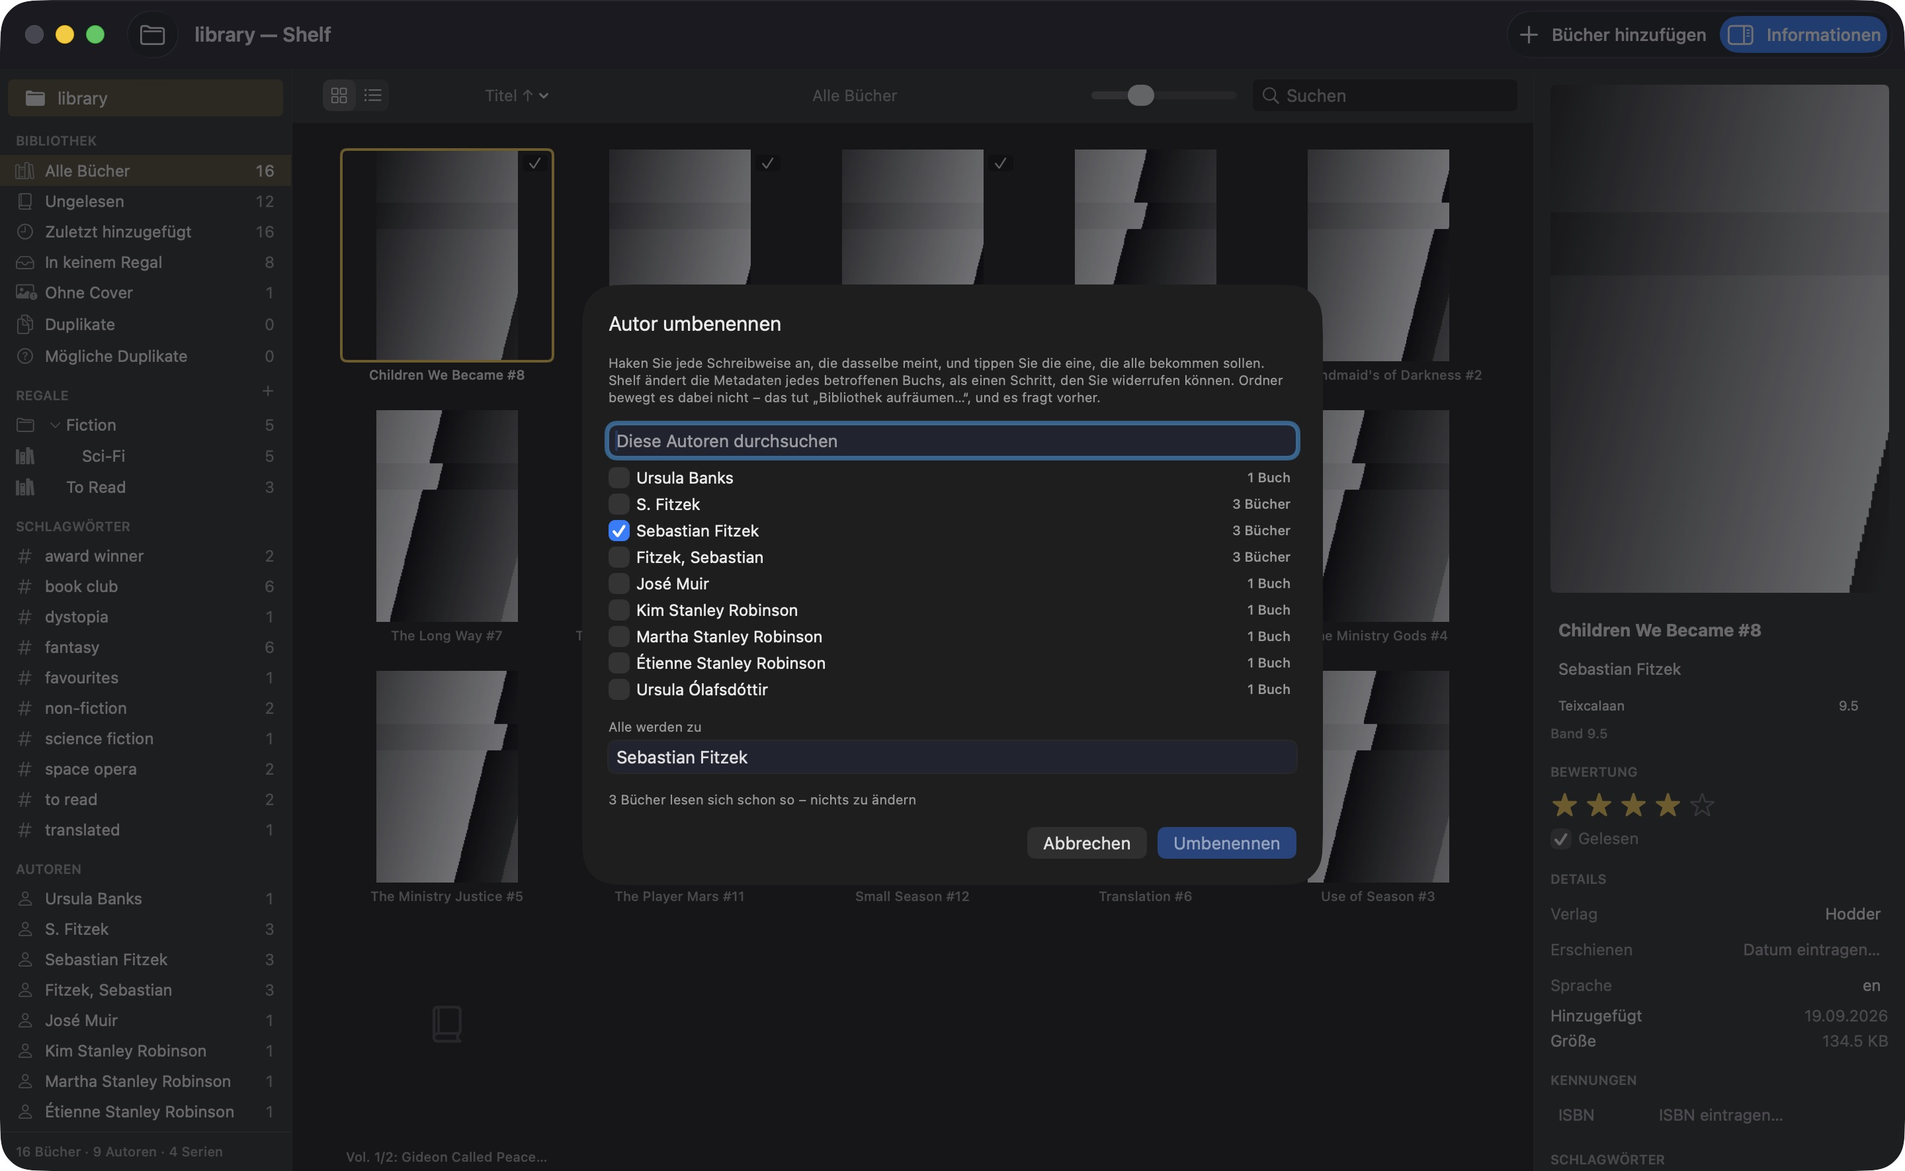
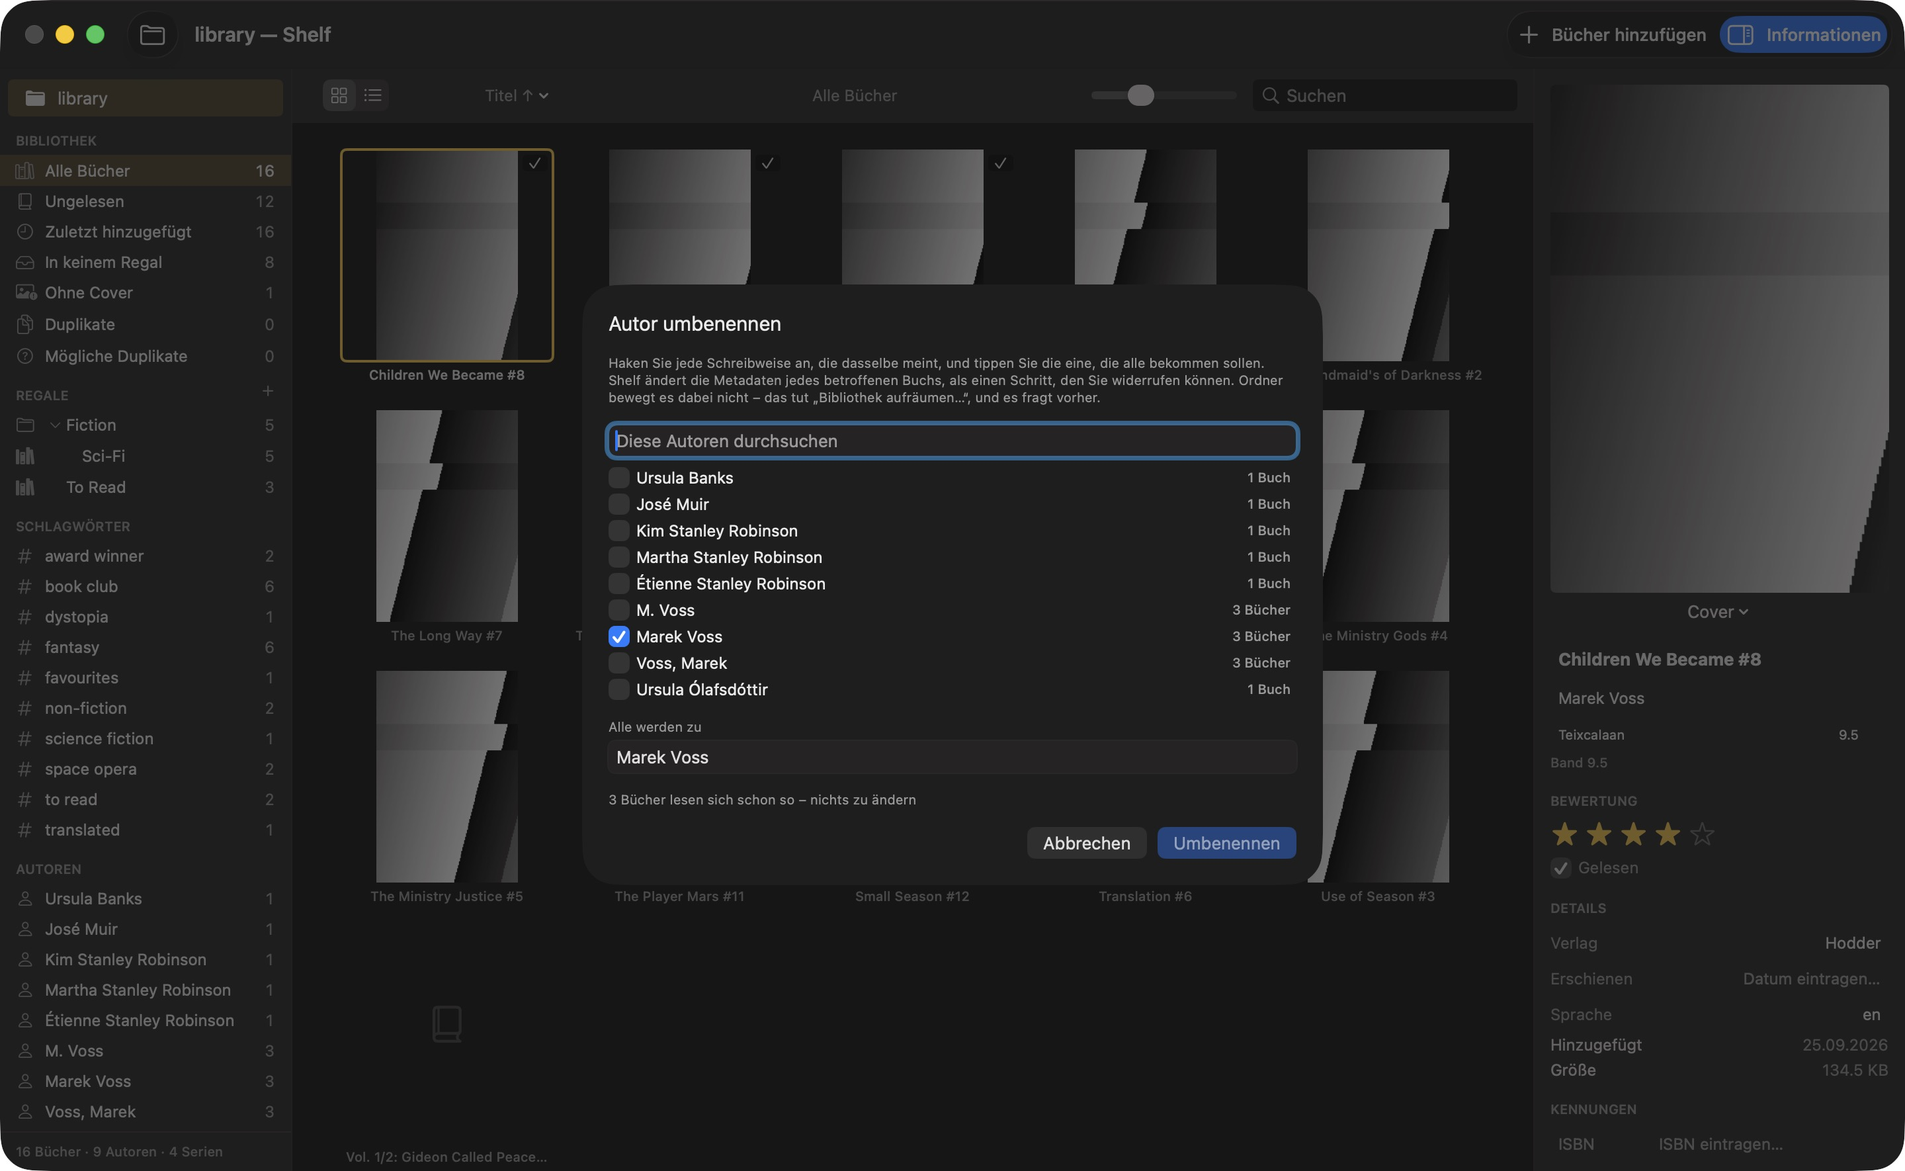
fix: a real author, a real title and a real download site left the public repo
Read against the real library (read-only) which values in the codebase's
own examples turned out to be genuinely real rather than invented: an
author name used since Sprint 8 for the merge/organize example (ADR 0018,
scripts, tests, six Sprint 8 screenshots), and a second real author and
book title used as a download-site filename fixture, repeated once more
in a CHANGELOG entry and a code comment. All replaced with invented
names, consistently; the six screenshots re-taken against the rebuilt
example library in both languages. The download-site test no longer
names a real site: the filename-prefix rule is now a general
"_<domain>_" pattern instead of one hard-coded domain. One unrelated real
book title in a CHANGELOG entry about a real import is withheld rather
than replaced.

diff --git a/Tests/ShelfCoreTests/NameEditTests.swift b/Tests/ShelfCoreTests/NameEditTests.swift
@@ -6,8 +6,8 @@ import Testing
 /// Renaming one spelling, and folding several into one.
 ///
 /// The scenario every test here comes back to is the one that started Sprint 8:
-/// one person in the library as "Sebastian Fitzek", "Fitzek, Sebastian" and
-/// "S. Fitzek", which is three authors and three folders and no defect
+/// one person in the library as "Marek Voss", "Voss, Marek" and
+/// "M. Voss", which is three authors and three folders and no defect
 /// anywhere — three different strings really are three different strings.
 @Suite("Renaming and merging the names books share")
 struct NameEditTests {
@@ -26,19 +26,19 @@ struct NameEditTests {
     @Test("three spellings of one author become one, and each book is one change")
     func mergeAuthors() {
         let entries = [
-            entry("Die Therapie", authors: ["Sebastian Fitzek"]),
-            entry("Das Kind", authors: ["Fitzek, Sebastian"]),
-            entry("Splitter", authors: ["S. Fitzek"]),
+            entry("Die Therapie", authors: ["Marek Voss"]),
+            entry("Das Kind", authors: ["Voss, Marek"]),
+            entry("Splitter", authors: ["M. Voss"]),
             entry("Pride and Prejudice", authors: ["Jane Austen"]),
         ]
         let merge = NameMerge(
-            kind: .author, sources: ["Fitzek, Sebastian", "S. Fitzek"], target: "Sebastian Fitzek")
+            kind: .author, sources: ["Voss, Marek", "M. Voss"], target: "Marek Voss")
         let plan = NameEdit.plan(merge, over: entries)
 
         // The book that already spells it right is not rewritten: a change
         // that changes nothing is not written.
         #expect(plan.bookCount == 2)
-        #expect(plan.changes.allSatisfy { $0.change.after.authors == ["Sebastian Fitzek"] })
+        #expect(plan.changes.allSatisfy { $0.change.after.authors == ["Marek Voss"] })
         // And Jane Austen is untouched, which is the whole of "Shelf never chooses".
         #expect(!plan.changes.contains { $0.entry.book.title == "Pride and Prejudice" })
         // Without the count: the window adds that through the same frame it
@@ -50,10 +50,10 @@ struct NameEditTests {
 
     @Test("a book carrying two of the spellings ends up with one author, not two")
     func twoSpellingsOnOneBook() {
-        let book = entry("An anthology", authors: ["S. Fitzek", "Sebastian Fitzek", "Jane Austen"]).book
-        let merge = NameMerge(kind: .author, sources: ["S. Fitzek"], target: "Sebastian Fitzek")
+        let book = entry("An anthology", authors: ["M. Voss", "Marek Voss", "Jane Austen"]).book
+        let merge = NameMerge(kind: .author, sources: ["M. Voss"], target: "Marek Voss")
         let edited = NameEdit.replacing(merge, in: book)
-        #expect(edited?.authors == ["Sebastian Fitzek", "Jane Austen"])
+        #expect(edited?.authors == ["Marek Voss", "Jane Austen"])
     }
 
     /// The order of the authors is data — the first one names the folder and
@@ -71,10 +71,10 @@ struct NameEditTests {
     /// why the sources are matched exactly and not folded.
     @Test("a rename that only changes the capitalisation is a real change")
     func capitalisationOnly() {
-        let book = entry("A book", authors: ["fitzek"]).book
-        let merge = NameMerge.rename(.author, from: "fitzek", to: "Fitzek")
+        let book = entry("A book", authors: ["voss"]).book
+        let merge = NameMerge.rename(.author, from: "voss", to: "Voss")
         let change = NameEdit.change(merge, to: book)
-        #expect(change?.after.authors == ["Fitzek"])
+        #expect(change?.after.authors == ["Voss"])
     }
 
     /// …and the target's spelling wins when the replacement collides with a
@@ -126,13 +126,13 @@ struct NameEditTests {
     @Test("an empty plan says whether nobody carries the name or everybody already does")
     func twoKindsOfNothing() {
         let entries = [
-            entry("One", authors: ["Sebastian Fitzek"]),
-            entry("Two", authors: ["Sebastian Fitzek"]),
+            entry("One", authors: ["Marek Voss"]),
+            entry("Two", authors: ["Marek Voss"]),
             entry("Three", authors: ["Jane Austen"]),
         ]
         // Ticked and typed the same: nothing to do, but the books are there.
         let noop = NameEdit.plan(
-            NameMerge.rename(.author, from: "Sebastian Fitzek", to: "Sebastian Fitzek"),
+            NameMerge.rename(.author, from: "Marek Voss", to: "Marek Voss"),
             over: entries)
         #expect(noop.isEmpty)
         #expect(noop.carrying == 2)
@@ -177,20 +177,20 @@ struct NameEditTests {
     func sortKeysFollow() async throws {
         let index = try LibraryIndex(inMemory: "merge-sort")
 
-        var zebra = entry("Zebra", authors: ["Fitzek, Sebastian"])
+        var zebra = entry("Zebra", authors: ["Voss, Marek"])
         try await index.save(zebra)
-        // "Fitzek, Sebastian" already sorts as itself; the merged spelling
-        // "Sebastian Fitzek" has to be filed under F as well, which is the
+        // "Voss, Marek" already sorts as itself; the merged spelling
+        // "Marek Voss" has to be filed under F as well, which is the
         // thing a fresh name_sort buys.
-        #expect(try await index.authorFacets().map { $0.name } == ["Fitzek, Sebastian"])
+        #expect(try await index.authorFacets().map { $0.name } == ["Voss, Marek"])
 
-        let merge = NameMerge.rename(.author, from: "Fitzek, Sebastian", to: "Sebastian Fitzek")
+        let merge = NameMerge.rename(.author, from: "Voss, Marek", to: "Marek Voss")
         zebra.book = try #require(NameEdit.replacing(merge, in: zebra.book))
         try await index.save(zebra)
 
         let facets = try await index.authorFacets()
         // The old author row has no books left, so it is not a facet any more.
-        #expect(facets.map { $0.name } == ["Sebastian Fitzek"])
+        #expect(facets.map { $0.name } == ["Marek Voss"])
         #expect(facets.first?.count == 1)
 
         let sorted = try await index.allEntries(sortedBy: BookOrder(field: .author, ascending: true))

diff --git a/Sources/ShelfCore/Formats/EPUBMetadata.swift b/Sources/ShelfCore/Formats/EPUBMetadata.swift
@@ -208,8 +208,14 @@ public enum FileNameMetadata {
     static let separators = [" - ", " – ", " — ", "_-_"]
 
     /// Prefixes shops and sites glue onto a file name. Stripped so a book is
-    /// not called "OceanofPDF com The Wife Upstairs".
-    static let noisePrefixes = ["_oceanofpdf.com_", "oceanofpdf.com_", "www.", "_"]
+    /// not called "Example Books com The Attic Room".
+    ///
+    /// No site's own domain is hard-coded: `_<label>.<tld>_` at the very
+    /// start of a name is the shape every one of them shares, so a domain
+    /// this project has never seen a file from folds away exactly like one
+    /// it has.
+    static let noisePrefixes = ["www.", "_"]
+    private static let domainPrefixPattern = "^_[a-z0-9-]+(?:\\.[a-z0-9-]+)+_"
 
     /// The title part of "The Hobbit - J.R.R. Tolkien".
     ///
@@ -241,13 +247,27 @@ public enum FileNameMetadata {
     }
 
     private static func withoutNoise(_ name: String) -> String {
-        var result = name
-        let lower = result.lowercased()
-        for prefix in noisePrefixes where lower.hasPrefix(prefix) {
-            result = String(result.dropFirst(prefix.count))
-            break
+        let lower = name.lowercased()
+        if let match = firstMatch(domainPrefixPattern, in: lower), let whole = match.first {
+            return String(name.dropFirst(whole.count))
         }
-        return result
+        for prefix in noisePrefixes where lower.hasPrefix(prefix) {
+            return String(name.dropFirst(prefix.count))
+        }
+        return name
+    }
+
+    /// The whole match and its groups, or nil. `NSRegularExpression` rather
+    /// than Swift's `Regex`, for the same Linux-portability reason
+    /// `ComicFileName.firstMatch` gives.
+    private static func firstMatch(_ pattern: String, in text: String) -> [String]? {
+        guard let expression = try? NSRegularExpression(pattern: pattern) else { return nil }
+        let full = NSRange(text.startIndex..., in: text)
+        guard let match = expression.firstMatch(in: text, range: full) else { return nil }
+        return (0..<match.numberOfRanges).map { index in
+            guard let range = Range(match.range(at: index), in: text) else { return "" }
+            return String(text[range])
+        }
     }
 
     /// Underscores back to spaces, runs of whitespace collapsed. Not

diff --git a/Sources/ShelfCore/Library/NameEdit.swift b/Sources/ShelfCore/Library/NameEdit.swift
@@ -65,8 +65,8 @@ public struct NameMerge: Equatable, Sendable {
     /// The spellings being replaced, exactly as the sidebar lists them.
     ///
     /// Exact, not folded: the facets the person clicked are exact strings, and
-    /// a rename whose only change *is* the capitalisation — "fitzek" to
-    /// "Fitzek" — has to be possible.
+    /// a rename whose only change *is* the capitalisation — "voss" to
+    /// "Voss" — has to be possible.
     public var sources: [String]
     /// What they all become.
     public var target: String
@@ -162,8 +162,8 @@ public struct NameMergePlan: Equatable, Sendable {
     /// not the merge would change them.
     ///
     /// It exists to tell two quite different nothings apart, and looking at a
-    /// screenshot is what found them being told alike. Ticking "Sebastian
-    /// Fitzek" and typing "Sebastian Fitzek" changes nothing, and the sheet
+    /// screenshot is what found them being told alike. Ticking "Marek
+    /// Voss" and typing "Marek Voss" changes nothing, and the sheet
     /// said **"No book carries that name"** — with three of them listed one
     /// line above, each saying "3 books". Both are empty plans; only one of
     /// them is a library that has never heard of the name.
@@ -187,7 +187,7 @@ public struct NameMergePlan: Equatable, Sendable {
             && zip(one.changes, other.changes).allSatisfy { $0.entry == $1.entry && $0.change == $1.change }
     }
 
-    /// "37 books · 3 spellings → “Sebastian Fitzek”".
+    /// "37 books · 3 spellings → “Marek Voss”".
     public func summary() -> String {
         guard !isEmpty else {
             if carrying == 0 {

diff --git a/Tests/ShelfCoreTests/MergeMatchingTests.swift b/Tests/ShelfCoreTests/MergeMatchingTests.swift
@@ -43,13 +43,13 @@ struct MergeMatchingTests {
 
     @Test("order and punctuation do not make two spellings different people")
     func foldsOrderAndPunctuation() {
-        #expect(AuthorNameFold.normalized("Fitzek, Sebastian") == AuthorNameFold.normalized("Sebastian Fitzek"))
+        #expect(AuthorNameFold.normalized("Voss, Marek") == AuthorNameFold.normalized("Marek Voss"))
         #expect(AuthorNameFold.normalized("Hartmann, Cole") == AuthorNameFold.normalized("Cole Hartmann"))
     }
 
     @Test("an initial for a full first name is NOT folded the same — that needs Teil C's own confirmation")
     func doesNotFoldInitialsAgainstFullNames() {
-        #expect(AuthorNameFold.normalized("J. Zeh") != AuthorNameFold.normalized("Juli Zeh"))
+        #expect(AuthorNameFold.normalized("J. Vogt") != AuthorNameFold.normalized("Julia Vogt"))
     }
 
     @Test("genuinely different people stay different")
@@ -98,8 +98,8 @@ struct MergeMatchingTests {
 
     @Test("an author spelling swap still groups, via the safe fold")
     func groupsAcrossAuthorOrderSwap() {
-        let a = entry(title: "Nachtfrost", author: "Sebastian Fitzek", number: 1)
-        let b = entry(title: "Nachtfrost", author: "Fitzek, Sebastian", number: 2)
+        let a = entry(title: "Nachtfrost", author: "Marek Voss", number: 1)
+        let b = entry(title: "Nachtfrost", author: "Voss, Marek", number: 2)
         let groups = MergeCandidates.certainGroups(among: [a, b])
         #expect(groups.count == 1)
     }

diff --git a/Sources/ShelfCore/Organize/OrganizeRunner.swift b/Sources/ShelfCore/Organize/OrganizeRunner.swift
@@ -15,7 +15,7 @@ import Foundation
 ///   because a plan is a statement about a moment that has passed.
 /// * **Nothing is deleted.** The one folder this touches at all is an author
 ///   folder this run has just **emptied** — "Atwood, Adrian" after its last
-///   book moved to "Fitzek, Sebastian" — and it goes to the **Trash**, never
+///   book moved to "Voss, Marek" — and it goes to the **Trash**, never
 ///   to `removeItem`. The rule is `EmptiedFolder` and the act is
 ///   `FolderDisposal`, kept apart so the first can be tested on Linux and the
 ///   second is the platform's. A folder holding anything but the file
@@ -263,7 +263,7 @@ public struct OrganizeRunner: Sendable {
         try makeFolder(destination.deletingLastPathComponent())
 
         if move.isCaseOnly {
-            // `Fitzek` → `fitzek` on a folding volume is not a move between two
+            // `Voss` → `voss` on a folding volume is not a move between two
             // folders; it is one folder being spelled differently, and a direct
             // `moveItem` is a write into itself. Two steps through a name
             // nothing else can have — and the only halfway state in this whole

diff --git a/Tests/ShelfCoreTests/ModelTests.swift b/Tests/ShelfCoreTests/ModelTests.swift
@@ -173,15 +173,15 @@ struct SortingTests {
     }
 
     /// Found by importing seventeen real books: shop EPUBs write `dc:creator`
-    /// both ways, and sorting an already-sorted name turned "McFadden, Freida"
-    /// into "Freida, McFadden," – and with it the folder the book lives in.
+    /// both ways, and sorting an already-sorted name turned "Albrecht, Nora"
+    /// into "Nora, Albrecht," – and with it the folder the book lives in.
     @Test("a name that already has a comma is already sorted, and is left alone")
     func authorSortAlreadySorted() {
-        #expect(AuthorSort.of("McFadden, Freida") == "McFadden, Freida")
+        #expect(AuthorSort.of("Albrecht, Nora") == "Albrecht, Nora")
         #expect(AuthorSort.of("Austen, Jane") == "Austen, Jane")
         #expect(AuthorSort.of("King, Martin Luther Jr.") == "King, Martin Luther Jr.")
         // Whitespace is still tidied, so two spellings of one name are one name.
-        #expect(AuthorSort.of("  McFadden,   Freida  ") == "McFadden, Freida")
+        #expect(AuthorSort.of("  Albrecht,   Nora  ") == "Albrecht, Nora")
     }
 
     @Test("sorting a name twice gives the same answer as sorting it once")

diff --git a/Tests/ShelfCoreTests/EPUBMetadataTests.swift b/Tests/ShelfCoreTests/EPUBMetadataTests.swift
@@ -261,11 +261,18 @@ struct FileNameMetadataTests {
     @Test("underscores become spaces and a shop's prefix is dropped")
     func noise() {
         #expect(
-            FileNameMetadata.title(from: "_OceanofPDF.com_The_Wife_Upstairs_-_Freida_McFadden")
-                == "The Wife Upstairs")
+            FileNameMetadata.title(from: "_example-books.test_The_Attic_Room_-_Nora_Albrecht")
+                == "The Attic Room")
         #expect(
-            FileNameMetadata.authors(from: "_OceanofPDF.com_The_Wife_Upstairs_-_Freida_McFadden")
-                == ["Freida McFadden"])
+            FileNameMetadata.authors(from: "_example-books.test_The_Attic_Room_-_Nora_Albrecht")
+                == ["Nora Albrecht"])
+    }
+
+    @Test("a domain this project has never seen a file from folds away just the same")
+    func unseenDomain() {
+        #expect(
+            FileNameMetadata.title(from: "_totally-invented-site.example_A_Title_-_An_Author")
+                == "A Title")
     }
 
     @Test("the first separator wins, so a title containing a dash keeps its tail")

diff --git a/Sources/ShelfCore/Organize/VolumeCase.swift b/Sources/ShelfCore/Organize/VolumeCase.swift
@@ -9,7 +9,7 @@ import Foundation
 /// library can sit on any of them, and the answer changes what "move this
 /// folder there" means:
 ///
-/// * On a folding volume, `Fitzek` and `fitzek` are **one folder**. Moving one
+/// * On a folding volume, `Voss` and `voss` are **one folder**. Moving one
 ///   onto the other is not a move at all — it is a write into itself, which
 ///   `FileManager` refuses on some volumes and silently mangles on others. Such
 ///   a move has to go through a third name.
@@ -23,7 +23,7 @@ import Foundation
 /// asks for it by the other spelling, and takes the answer away with it.
 public enum VolumeCase {
 
-    /// `true` when the volume folds case — `Fitzek` and `fitzek` are one name.
+    /// `true` when the volume folds case — `Voss` and `voss` are one name.
     ///
     /// Falls back to `true` when the question cannot be asked at all (a
     /// read-only folder, a volume that has gone). `true` is the cautious

diff --git a/Sources/ShelfCore/Library/MergeMatching.swift b/Sources/ShelfCore/Library/MergeMatching.swift
@@ -39,8 +39,8 @@ public enum TitleNormalization {
 /// Folding an author's name for "is this the same person" — the *safe* half
 /// of Teil C's rule only: case, accents, punctuation and word order.
 ///
-/// `"Fitzek, Sebastian"` and `"Sebastian Fitzek"` fold to the same key. An
-/// initial standing for a full first name (`"J. Zeh"` against `"Juli Zeh"`)
+/// `"Voss, Marek"` and `"Marek Voss"` fold to the same key. An
+/// initial standing for a full first name (`"J. Vogt"` against `"Julia Vogt"`)
 /// is a different, riskier claim — it needs a shared work or series to
 /// confirm, which is what makes it a *proposal* a person confirms rather than
 /// something two books can be matched by on their own — so it belongs to

diff --git a/Sources/ShelfCore/Library/SimilarSpellings.swift b/Sources/ShelfCore/Library/SimilarSpellings.swift
@@ -61,7 +61,7 @@ public struct SimilarSpellingGroup: Equatable, Sendable, Identifiable {
 /// Proposing groups of author or publisher spellings that are probably one
 /// person or one publisher — never merging anything itself.
 public enum SimilarSpellings {
-    /// A name whose given-name part is written as initials — `"J. Zeh"`,
+    /// A name whose given-name part is written as initials — `"J. Vogt"`,
     /// `"J. K. Rowling"` — every token before the last one is a single
     /// letter with a period. The riskier of C2's two rules only applies
     /// when this is true of one side and false of the other; two full names

diff --git a/Tests/ShelfCoreTests/OrganizeTests.swift b/Tests/ShelfCoreTests/OrganizeTests.swift
@@ -420,8 +420,8 @@ struct OrganizeTests {
     func caseIsMeasured() throws {
         let temporary = try TemporaryFolder()
         let folds = VolumeCase.folds(at: temporary.url)
-        try temporary.write("Fitzek/x.txt", text: "x")
-        #expect(temporary.exists("fitzek/x.txt") == folds)
+        try temporary.write("Voss/x.txt", text: "x")
+        #expect(temporary.exists("voss/x.txt") == folds)
         #expect(VolumeCase.same("A/B", "a/b", folding: folds) == folds)
         #expect(VolumeCase.same("A/B", "A/B", folding: folds))
         #expect(VolumeCase.isCaseOnly(from: "A", to: "a", folding: folds) == folds)

diff --git a/Sources/ShelfCore/Model/Book.swift b/Sources/ShelfCore/Model/Book.swift
@@ -270,7 +270,7 @@ public enum AuthorSort {
     public static func of(_ name: String) -> String {
         let trimmed = name.trimmingCharacters(in: .whitespacesAndNewlines)
         // A name that already has a comma in it is already in sort form, and
-        // sorting it again is how "McFadden, Freida" became "Freida, McFadden,".
+        // sorting it again is how "Albrecht, Nora" became "Nora, Albrecht,".
         // Real EPUBs write `dc:creator` both ways – found in a shop download,
         // and in a large share of any real library.
         guard !trimmed.contains(",") else {
